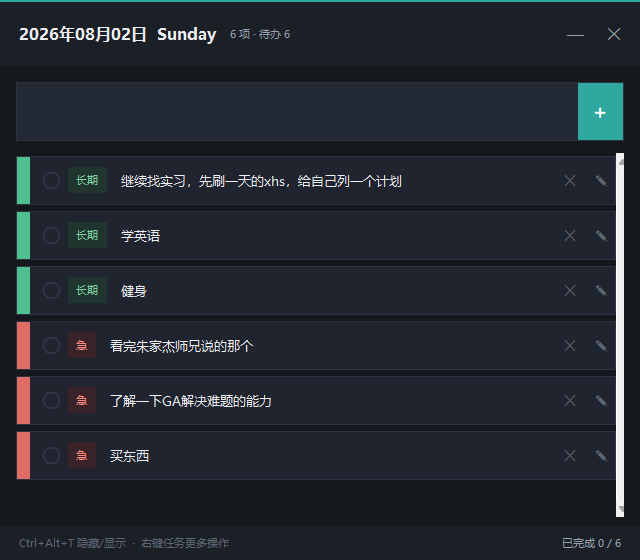
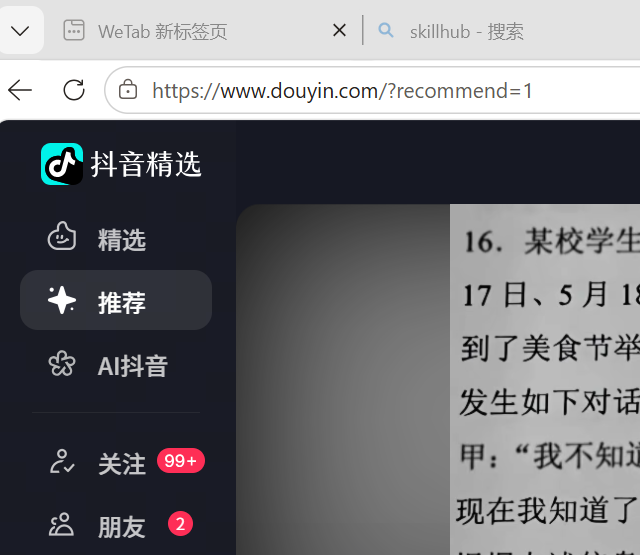
update screenshots and fix detail panel close button

diff --git a/task_widget.py b/task_widget.py
@@ -426,80 +426,90 @@ class TaskWidget:
             self.refresh_task_list()
     
     def edit_task(self, index):
-        """弹出对话框修改任务内容"""
+        """弹出对话框修改任务内容（多行文本框，自动换行）"""
         today = datetime.now().strftime('%Y-%m-%d')
         if today not in self.tasks or index >= len(self.tasks[today]):
             return
         old_text = self.tasks[today][index]['text']
-        
+
         dlg = tk.Toplevel(self.root)
         dlg.title("修改任务")
         dlg.configure(bg=COL_BG)
-        dlg.resizable(False, False)
+        dlg.resizable(True, True)
         dlg.transient(self.root)
         dlg.grab_set()
-        
+        dlg.minsize(320, 180)
+
         # 居中于主窗口
+        W, H = 340, 220
         dlg.update_idletasks()
-        x = self.root.winfo_rootx() + (self.root.winfo_width() - dlg.winfo_reqwidth()) // 2
-        y = self.root.winfo_rooty() + (self.root.winfo_height() - dlg.winfo_reqheight()) // 2
-        dlg.geometry(f"+{x}+{y}")
-        
-        entry = tk.Entry(
+        x = self.root.winfo_rootx() + (self.root.winfo_width() - W) // 2
+        y = self.root.winfo_rooty() + (self.root.winfo_height() - H) // 2
+        dlg.geometry(f"{W}x{H}+{x}+{y}")
+
+        # 顶部标签
+        tk.Label(
+            dlg, text="修改任务内容", font=FONT_UI_BOLD,
+            bg=COL_BG, fg=COL_TXT_HI, anchor='w'
+        ).pack(fill='x', padx=15, pady=(12, 4))
+
+        # 多行文本框（wrap=word，自动换行，不超出边框）
+        txt = tk.Text(
             dlg,
+            wrap='word',
             font=('Microsoft YaHei UI', 10),
             bg=COL_INPUT,
             fg=COL_TXT_HI,
             insertbackground=COL_TXT_HI,
             relief='flat',
-            width=30
+            bd=0,
+            padx=10,
+            pady=8,
+            height=5,
+            highlightthickness=1,
+            highlightbackground=COL_BORDER,
+            highlightcolor=COL_ACCENT,
         )
-        entry.insert(0, old_text)
-        entry.pack(padx=15, pady=(15, 10), fill='x')
-        entry.focus_set()
-        entry.select_range(0, tk.END)
-        
+        txt.insert('1.0', old_text)
+        txt.pack(padx=15, pady=(0, 4), fill='both', expand=True)
+        txt.focus_set()
+        txt.mark_set('insert', 'end')
+
+        # 提示
+        tk.Label(
+            dlg, text="Ctrl+Enter 保存  ·  Esc 取消",
+            font=FONT_SMALL, bg=COL_BG, fg=COL_TXT_LOW
+        ).pack(anchor='e', padx=15)
+
         def do_save():
-            new_text = entry.get().strip()
+            new_text = txt.get('1.0', 'end').strip()
             if new_text:
                 self.tasks[today][index]['text'] = new_text
                 self.save_tasks()
                 self.refresh_task_list()
             dlg.destroy()
-        
+
         btn_frame = tk.Frame(dlg, bg=COL_BG)
-        btn_frame.pack(pady=(0, 12))
-        save_btn = tk.Button(
-            btn_frame,
-            text="保存修改",
+        btn_frame.pack(pady=(4, 12))
+        tk.Button(
+            btn_frame, text="保存修改",
             font=('Microsoft YaHei UI', 9),
-            bg=COL_ACCENT,
-            fg='#ffffff',
-            activebackground=COL_ACCENT_HV,
-            relief='flat',
-            bd=0,
-            cursor='hand2',
-            command=do_save,
-            width=8
-        )
-        save_btn.pack(side='left', padx=5)
-        cancel_btn = tk.Button(
-            btn_frame,
-            text="取消",
+            bg=COL_ACCENT, fg='#ffffff',
+            activebackground=COL_ACCENT_HV, activeforeground='#ffffff',
+            relief='flat', bd=0, cursor='hand2',
+            command=do_save, width=8
+        ).pack(side='left', padx=5)
+        tk.Button(
+            btn_frame, text="取消",
             font=('Microsoft YaHei UI', 9),
-            bg=COL_PANEL,
-            fg=COL_TXT_MID,
-            activebackground=COL_CARD_HV,
-            relief='flat',
-            bd=0,
-            cursor='hand2',
-            command=dlg.destroy,
-            width=8
-        )
-        cancel_btn.pack(side='left', padx=5)
-        
-        entry.bind('<Return>', lambda e: do_save())
-        entry.bind('<Escape>', lambda e: dlg.destroy())
+            bg=COL_PANEL, fg=COL_TXT_MID,
+            activebackground=COL_CARD_HV, activeforeground=COL_TXT_HI,
+            relief='flat', bd=0, cursor='hand2',
+            command=dlg.destroy, width=8
+        ).pack(side='left', padx=5)
+
+        txt.bind('<Control-Return>', lambda e: do_save())
+        txt.bind('<Escape>', lambda e: dlg.destroy())
     
     def show_category_menu(self, index, widget):
         """点击分类标签弹出选择菜单：长期 / 急 / 不急"""
@@ -776,61 +786,58 @@ class TaskWidget:
             menu.grab_release()
 
     def open_task_detail(self, index):
-        """打开任务二级窗口：完整内容（多行可编辑）+ 分类/完成/保存/删除"""
+        """在主窗口内叠加内联详情面板（不开新窗口）"""
         today = datetime.now().strftime('%Y-%m-%d')
         if today not in self.tasks or index >= len(self.tasks[today]):
             return
         task = self.tasks[today][index]
 
-        dlg = tk.Toplevel(self.root)
-        dlg.title("任务详情")
-        dlg.configure(bg=COL_BG)
-        dlg.geometry("560x340")
-        dlg.overrideredirect(True)
-        dlg.transient(self.root)
-        dlg.after(300, lambda: self._apply_round_corner(dlg))
-        # 居中于主窗口
-        dlg.update_idletasks()
-        x = self.root.winfo_rootx() + (self.root.winfo_width() - 560) // 2
-        y = self.root.winfo_rooty() + (self.root.winfo_height() - 340) // 2
-        dlg.geometry(f"+{x}+{y}")
+        # 如果已有详情面板则先销毁（防止重复打开）
+        if hasattr(self, '_detail_panel') and self._detail_panel is not None:
+            try:
+                self._detail_panel.destroy()
+            except Exception:
+                pass
+            self._detail_panel = None
+
+        # 内联面板：place 覆盖整个主窗口，z 轴最顶层
+        panel = tk.Frame(self.root, bg=COL_BG, relief='flat', bd=0)
+        panel.place(x=0, y=0, relwidth=1, relheight=1)
+        panel.lift()
+        self._detail_panel = panel
+
+        def close_panel():
+            panel.place_forget()
+            panel.destroy()
+            self._detail_panel = None
 
         # 顶部强调线
-        tk.Frame(dlg, bg=COL_ACCENT, height=2).pack(fill='x')
+        tk.Frame(panel, bg=COL_ACCENT, height=2).pack(fill='x')
 
-        # 自绘标题栏（可拖动）
-        bar = tk.Frame(dlg, bg=COL_PANEL, height=40)
+        # 标题栏
+        bar = tk.Frame(panel, bg=COL_PANEL, height=40)
         bar.pack(fill='x')
         bar.pack_propagate(False)
         title_lbl = tk.Label(bar, text="任务详情", font=FONT_UI_BOLD, bg=COL_PANEL, fg=COL_TXT_HI)
         title_lbl.pack(side='left', padx=(SP_LG, 0), pady=8)
         close_btn = tk.Button(
             bar, text="✕", font=FONT_SYMBOL_SM, bg=COL_PANEL, fg=COL_TXT_MID,
-            activebackground=COL_PANEL, activeforeground=COL_DANGER, relief='flat', bd=0,
-            cursor='hand2', command=dlg.destroy, width=3
+            activebackground=COL_PANEL, activeforeground=COL_DANGER,
+            relief='flat', bd=0, cursor='hand2', command=close_panel, width=3
         )
         close_btn.pack(side='right', padx=(0, SP_SM), pady=4)
         close_btn.bind('<Enter>', lambda e: close_btn.configure(fg=COL_DANGER))
         close_btn.bind('<Leave>', lambda e: close_btn.configure(fg=COL_TXT_MID))
 
-        drag = {'dx': 0, 'dy': 0}
-        def sd(e):
-            drag['dx'], drag['dy'] = e.x_root - dlg.winfo_x(), e.y_root - dlg.winfo_y()
-        def dd(e):
-            dlg.geometry(f"+{e.x_root - drag['dx']}+{e.y_root - drag['dy']}")
-        for w in (bar, title_lbl):
-            w.bind('<Button-1>', sd)
-            w.bind('<B1-Motion>', dd)
-
-        # 状态行：分类胶囊（点击切换）+ 完成切换
-        row = tk.Frame(dlg, bg=COL_BG)
+        # 状态行：分类胶囊 + 完成切换
+        row = tk.Frame(panel, bg=COL_BG)
         row.pack(fill='x', padx=SP_LG, pady=(SP_MD, SP_SM))
         cat = task.get('category', None)
         cat_text, cat_fg, cat_bg = CATEGORY_CONFIG.get(cat, CATEGORY_CONFIG[None])
         cat_btn = tk.Button(
             row, text=cat_text, font=FONT_SMALL, bg=cat_bg, fg=cat_fg,
-            activebackground=cat_bg, activeforeground=cat_fg, relief='flat', bd=0,
-            cursor='hand2', padx=8, pady=3
+            activebackground=cat_bg, activeforeground=cat_fg,
+            relief='flat', bd=0, cursor='hand2', padx=8, pady=3
         )
         cat_btn.pack(side='left')
         completed = task.get('completed', False)
@@ -844,9 +851,10 @@ class TaskWidget:
 
         def do_toggle():
             self.toggle_task(index)
-            dlg.destroy()
+            close_panel()
         toggle_btn = tk.Button(
-            row, text="✓ 标记完成" if not completed else "↺ 恢复未完成",
+            row,
+            text="✓ 标记完成" if not completed else "↺ 恢复未完成",
             font=FONT_SMALL, bg=COL_PANEL,
             fg=COL_SUCCESS if not completed else COL_TXT_MID,
             activebackground=COL_CARD_HV,
@@ -856,19 +864,19 @@ class TaskWidget:
         )
         toggle_btn.pack(side='right')
 
+        # 按钮行先 pack（固定底部），text 再 pack 填充剩余空间
+        btns = tk.Frame(panel, bg=COL_BG)
+        btns.pack(fill='x', padx=SP_LG, pady=(0, SP_MD), side='bottom')
+
         # 完整内容（多行可编辑，wrap 自动换行）
         text = tk.Text(
-            dlg, wrap='word', font=('Microsoft YaHei UI', 11),
+            panel, wrap='word', font=('Microsoft YaHei UI', 11),
             bg=COL_INPUT, fg=COL_TXT_HI, insertbackground=COL_TXT_HI,
-            relief='flat', bd=0, padx=12, pady=10, height=6,
+            relief='flat', bd=0, padx=12, pady=10,
             highlightthickness=1, highlightbackground=COL_BORDER
         )
         text.insert('1.0', task['text'])
         text.pack(fill='both', expand=True, padx=SP_LG, pady=(0, SP_SM))
-
-        # 按钮行：保存修改 / 删除任务 / 关闭
-        btns = tk.Frame(dlg, bg=COL_BG)
-        btns.pack(fill='x', padx=SP_LG, pady=(0, SP_MD))
 
         def do_save():
             new_text = text.get('1.0', 'end').strip()
@@ -876,7 +884,8 @@ class TaskWidget:
                 self.tasks[today][index]['text'] = new_text
                 self.save_tasks()
                 self.refresh_task_list()
-            dlg.destroy()
+            close_panel()
+
         save_btn = tk.Button(
             btns, text="保存修改", font=('Microsoft YaHei UI', 9),
             bg=COL_ACCENT, fg='#ffffff', activebackground=COL_ACCENT_HV,
@@ -886,9 +895,9 @@ class TaskWidget:
         save_btn.pack(side='left', padx=(0, 6))
 
         def do_delete():
-            if messagebox.askyesno("删除任务", "确定删除该任务吗？", parent=dlg):
+            if messagebox.askyesno("删除任务", "确定删除该任务吗？", parent=self.root):
                 self.delete_task(index)
-                dlg.destroy()
+                close_panel()
         del_btn = tk.Button(
             btns, text="删除任务", font=('Microsoft YaHei UI', 9),
             bg=COL_PANEL, fg=COL_DANGER, activebackground=COL_CARD_HV,
@@ -896,16 +905,17 @@ class TaskWidget:
             command=do_delete, width=8
         )
         del_btn.pack(side='left')
+
         close_btn2 = tk.Button(
-            btns, text="关闭", font=('Microsoft YaHei UI', 9),
-            bg=COL_PANEL, fg=COL_TXT_MID, activebackground=COL_CARD_HV,
-            activeforeground=COL_TXT_HI, relief='flat', bd=0, cursor='hand2',
-            command=dlg.destroy, width=8
+            btns, text="✓ 完成", font=('Microsoft YaHei UI', 9, 'bold'),
+            bg=COL_SUCCESS, fg='#ffffff', activebackground='#27ae60',
+            activeforeground='#ffffff', relief='flat', bd=0, cursor='hand2',
+            command=close_panel, width=9, pady=3
         )
         close_btn2.pack(side='right')
 
         text.bind('<Control-Return>', lambda e: do_save())
-        text.bind('<Escape>', lambda e: dlg.destroy())
+        text.bind('<Escape>', lambda e: close_panel())
         text.focus_set()
 
     def toggle_window(self):
